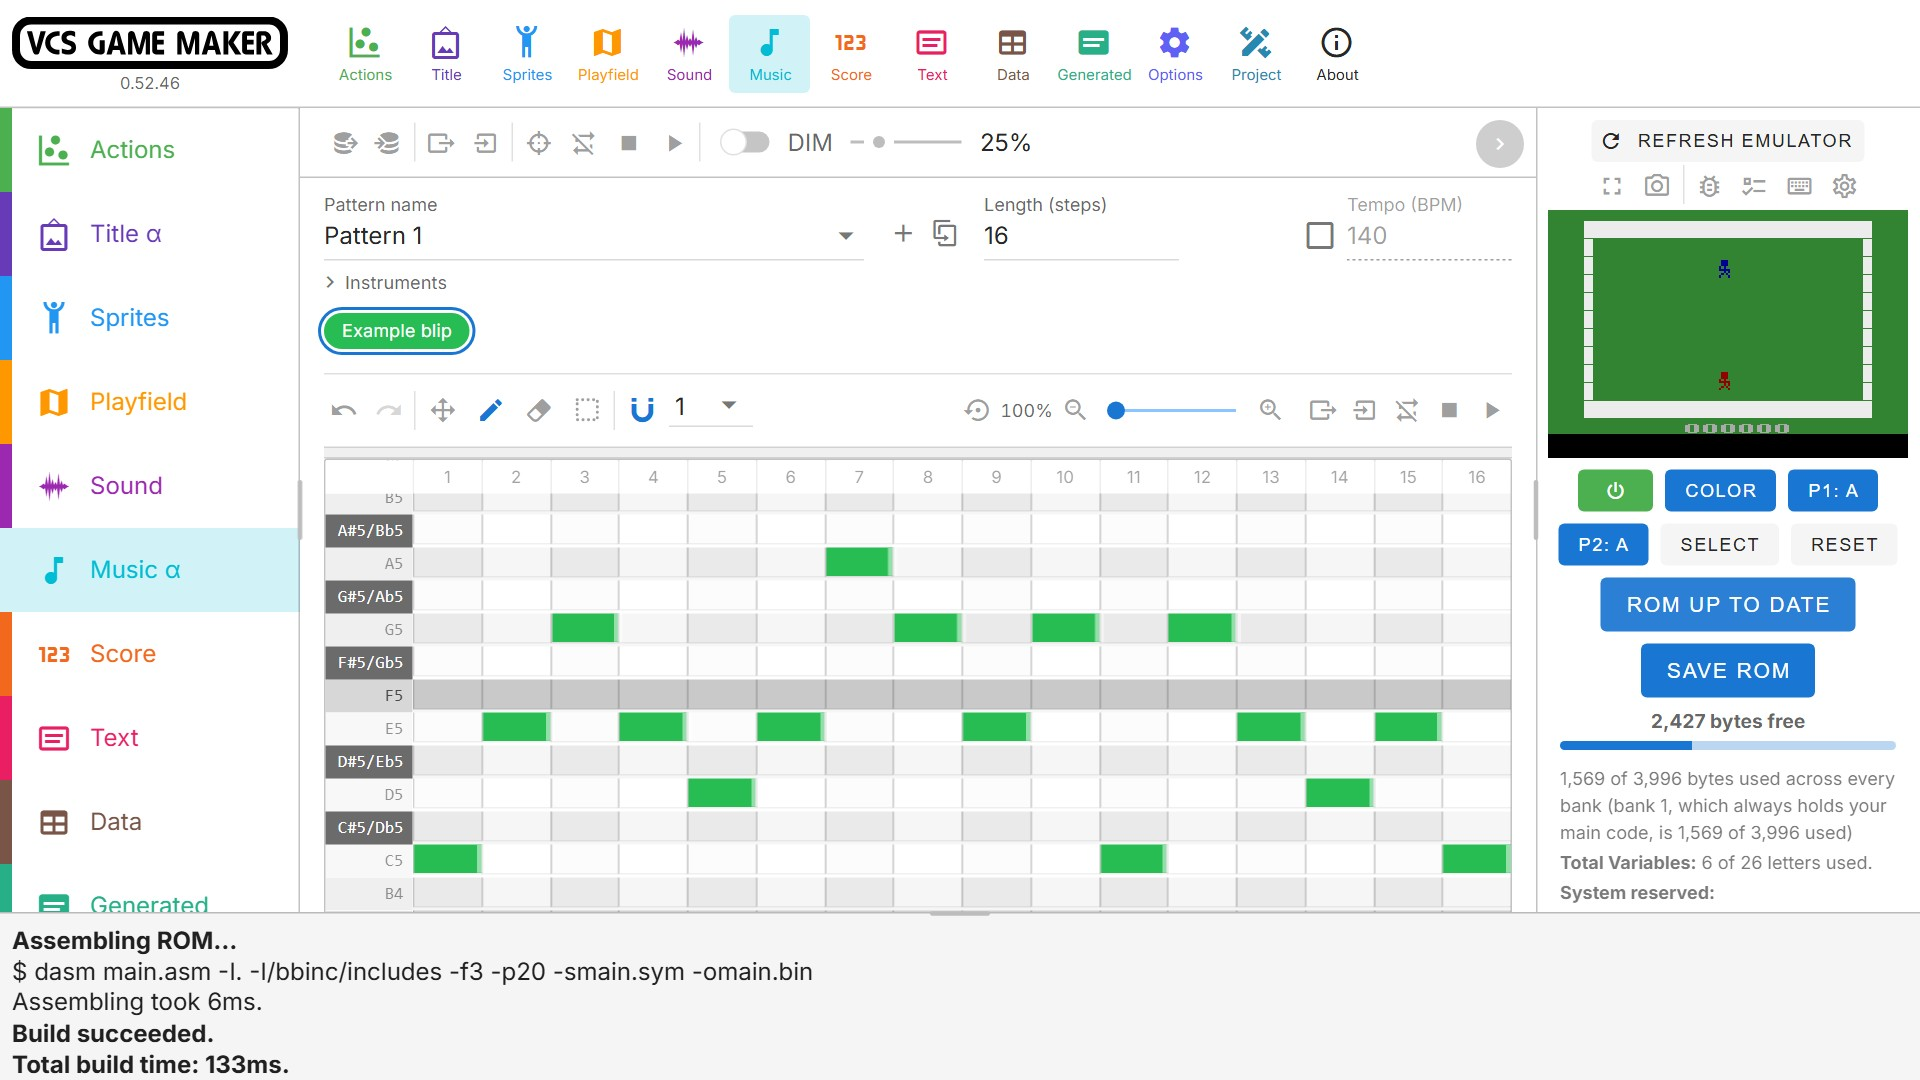
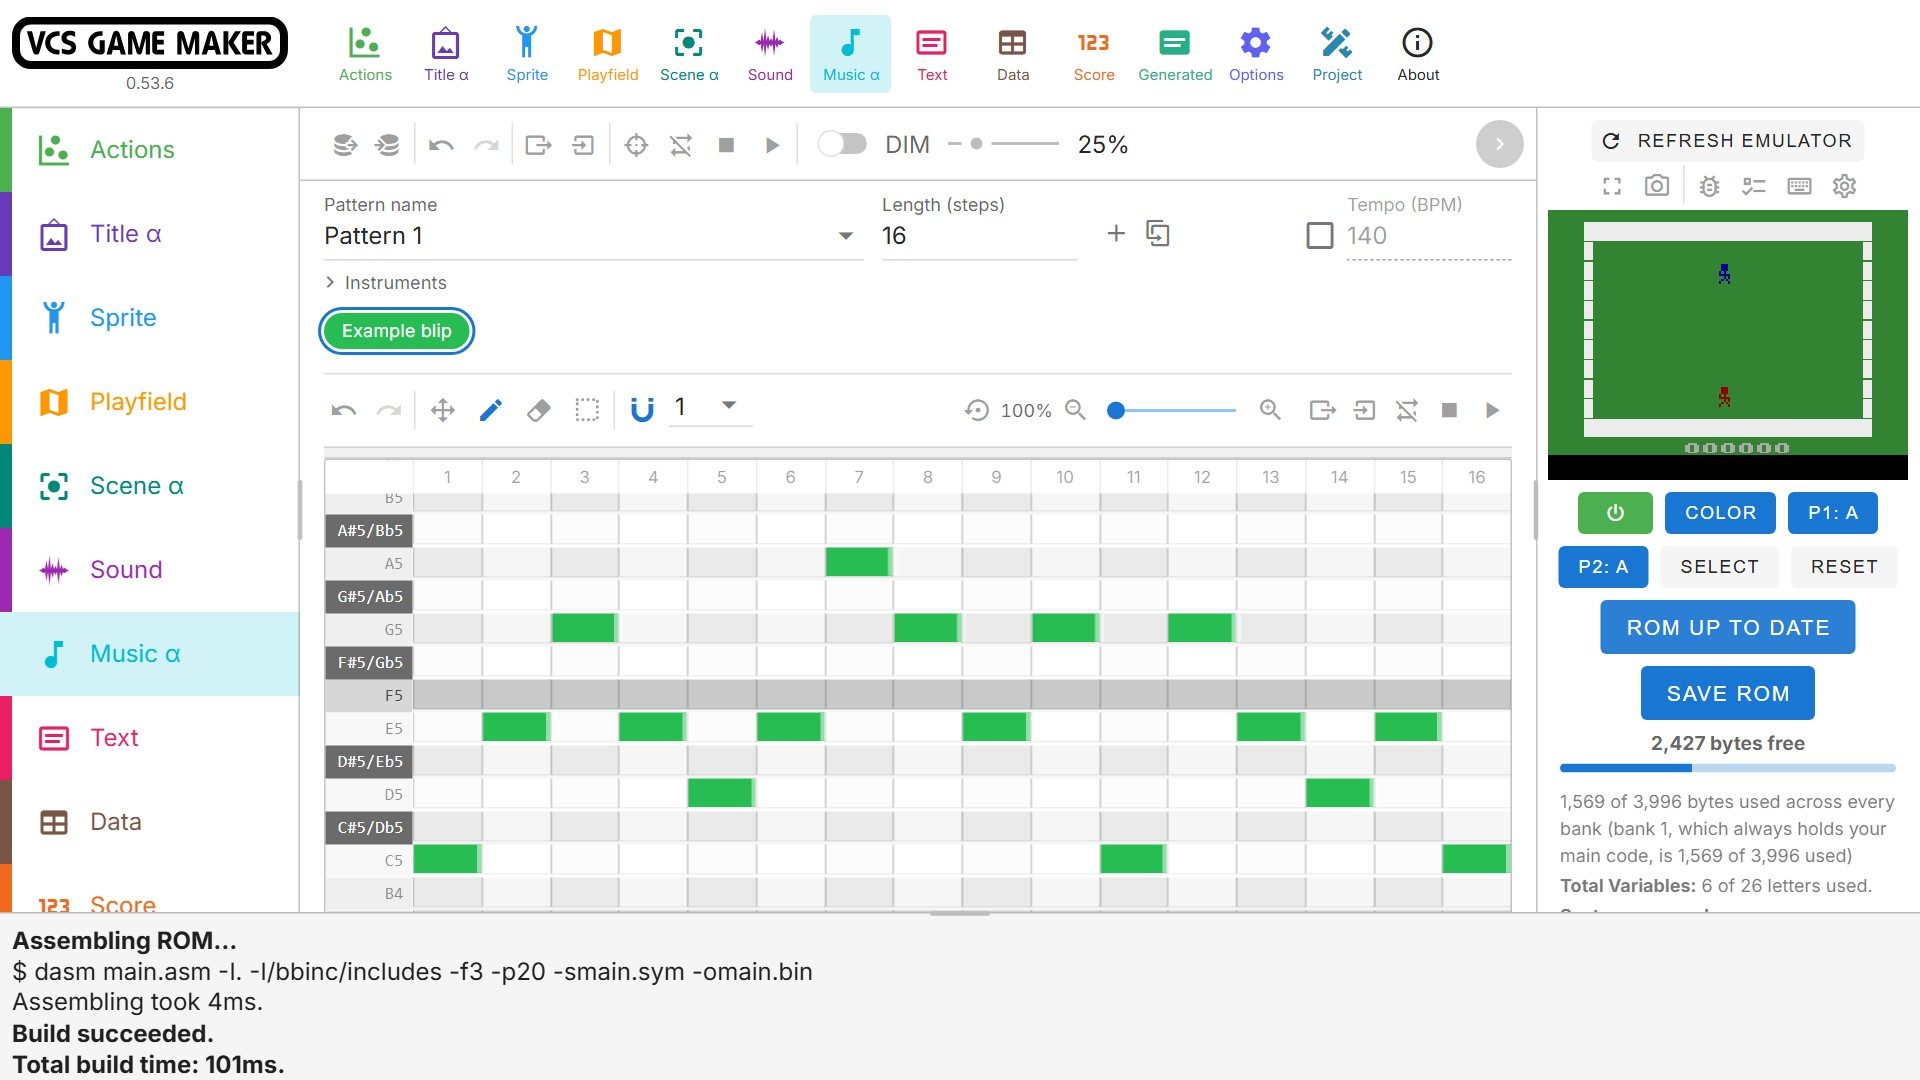
Web page: Scenes section, new tab screenshots

diff --git a/site/index.html b/site/index.html
@@ -205,6 +205,14 @@
       <img src="shot-playfield.jpg" alt="The Playfield tab of VCS Game Maker, with a playfield background being drawn next to the running game.">
     </section>
 
+    <section class="feature" id="scene">
+      <h2>Scenes</h2>
+      <div class="text">
+        <p>Set up a stage, a level or a menu in the Scene tab: pick a playfield, then drag your sprites onto it and give each one its position, color, width and animation. A single &ldquo;Set scene&rdquo; block puts the whole scene on screen, and &ldquo;Set scene by ID&rdquo; lets your game step through them. Each scene is kept as a card on the Data tab, and a test button shows it in the emulator without touching your ROM.</p>
+      </div>
+      <img src="shot-scene.jpg" alt="The Scene tab of VCS Game Maker, with sprites placed on a playfield and the settings of the selected sprite.">
+    </section>
+
     <section class="feature" id="sound">
       <h2>Sound &amp; music</h2>
       <div class="text">
